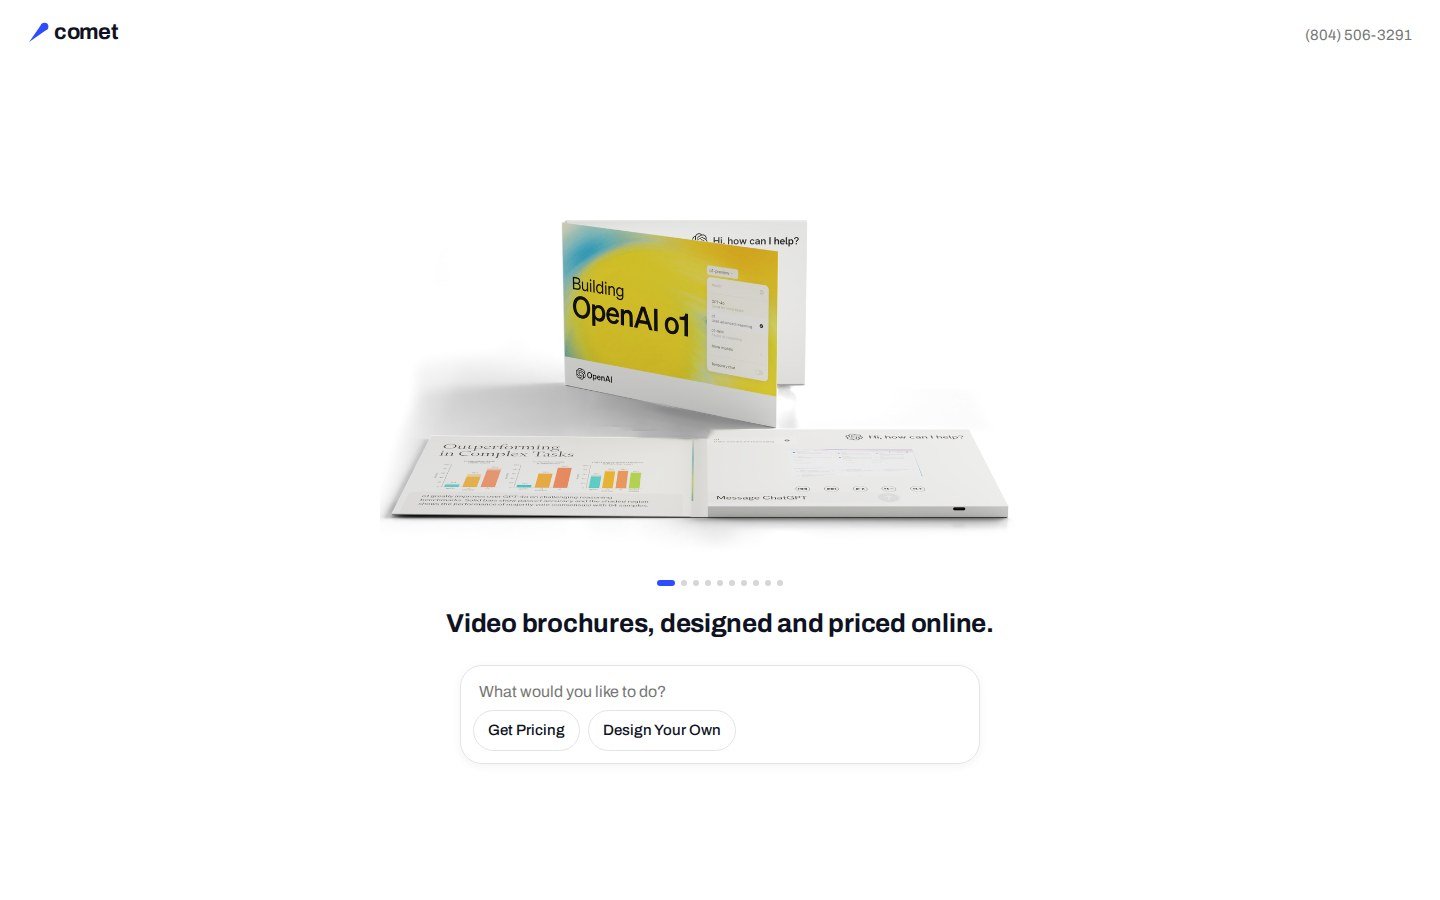
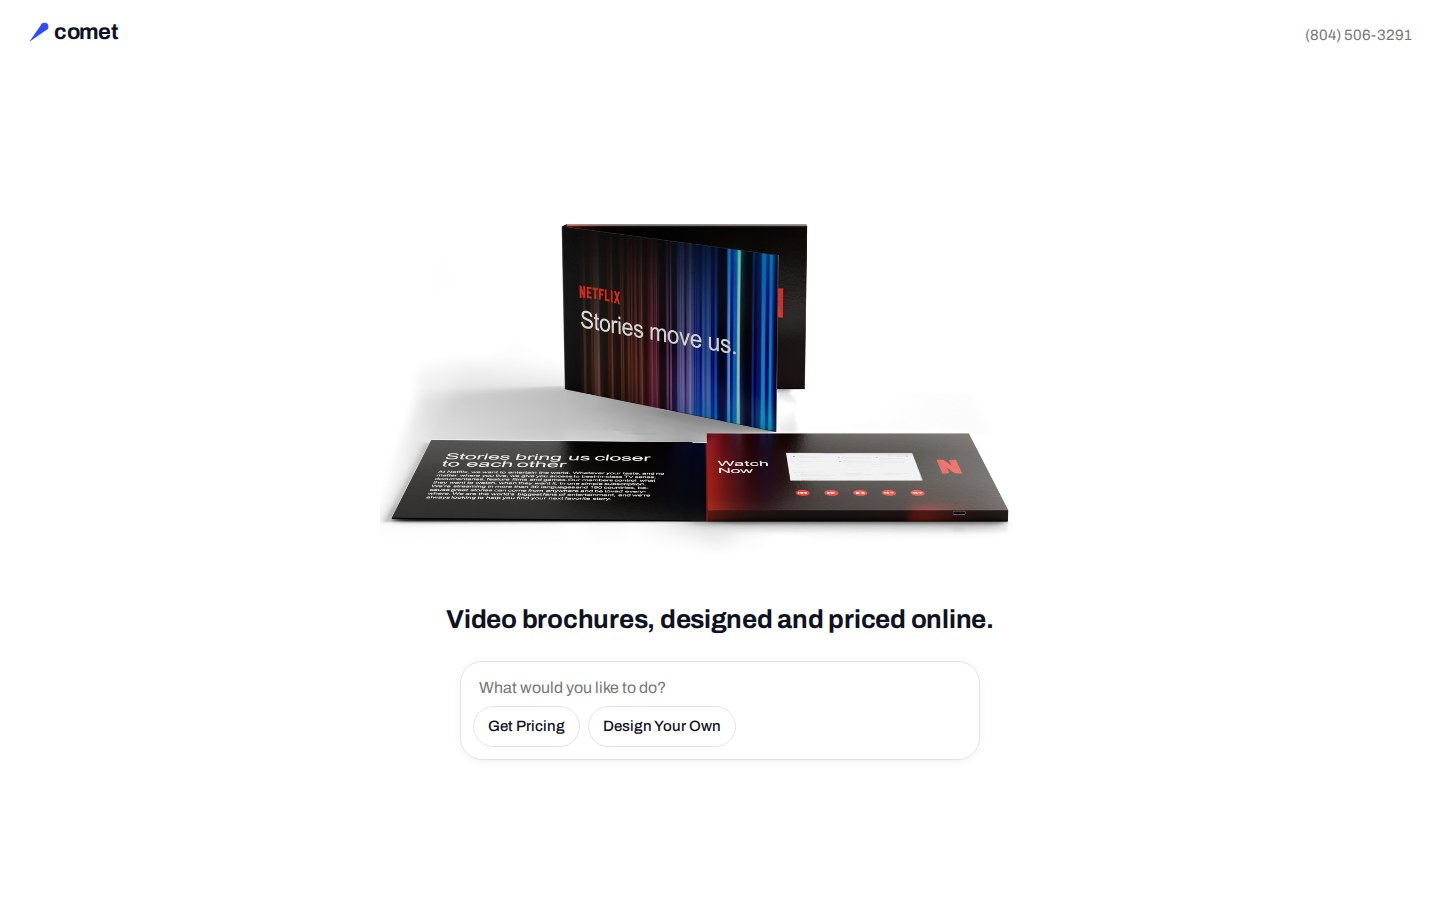
Homepage reel: no dots, Netflix first, OpenAI designs removed; chat design images fixed

Changed region(s): [[0.25, 0.2178, 0.7188, 0.5911], [0.3125, 0.7467, 0.5, 0.84], [0.3125, 0.6533, 0.6875, 0.7156]]

diff --git a/site/index.html b/site/index.html
@@ -19,7 +19,7 @@ main{flex:1;width:100%;max-width:760px;margin:0 auto;padding:0 20px;display:flex
 .reel img{position:absolute;inset:0;width:100%;height:100%;object-fit:contain;opacity:0;transform:translateX(24px);transition:opacity .7s ease,transform .7s ease}
 .reel img.on{opacity:1;transform:none}
 .reel img.out{opacity:0;transform:translateX(-24px)}
-.dots{display:flex;gap:6px;margin:6px 0 18px}
+.dots{display:flex;gap:6px;margin:6px 0 18px}.dots[hidden]{display:none}.reel{margin-bottom:22px}
 .dots button{width:6px;height:6px;border-radius:50%;background:#D6D6D6;padding:0}
 .dots button.on{background:var(--accent);width:18px;border-radius:3px}
 .ctas{display:flex;flex-direction:column;gap:10px;width:100%;max-width:320px;margin-top:22px}
@@ -139,11 +139,11 @@ body:not(.has-chat) .composer{display:none}
 <main>
  <div class="intro">
   <div class="reel" id="reel">
-   <img class="on" src="img/p14.webp" alt="Video brochure design">
-   <img src="img/p12.webp" alt=""><img src="img/p10.webp" alt=""><img src="img/p8.webp" alt=""><img src="img/p7.webp" alt="">
-   <img src="img/p3.webp" alt=""><img src="img/p15.webp" alt=""><img src="img/p13.webp" alt=""><img src="img/p4.webp" alt=""><img src="img/p6.webp" alt="">
+   <img class="on" src="img/p12.webp" alt="Netflix video brochure">
+   <img src="img/p10.webp" alt=""><img src="img/p8.webp" alt=""><img src="img/p3.webp" alt=""><img src="img/p7.webp" alt="">
+   <img src="img/p15.webp" alt=""><img src="img/p13.webp" alt=""><img src="img/p4.webp" alt="">
   </div>
-  <div class="dots" id="dots"></div>
+  <div class="dots" id="dots" hidden></div>
   <div class="copy">
   <p>Video brochures, designed and priced online.</p>
   <div class="ctas">
@@ -178,7 +178,7 @@ const chat=()=>document.body.classList.add('has-chat');
 const DES=['p8','p10','p13'];
 function designs(name){
  return add('bot',`<p>Here are three designs for ${name}. Pick one, or tell me what to change.</p>
-  <div class="designs">${DES.map((s,i)=>`<button class="${i===st.design?'on':''}" data-d="${i}"><img src="img/${s}.png" alt="">Design ${i+1}</button>`).join('')}</div>
+  <div class="designs">${DES.map((s,i)=>`<button class="${i===st.design?'on':''}" data-d="${i}"><img src="img/${s}.webp" alt="">Design ${i+1}</button>`).join('')}</div>
   <div class="follow"><button data-f="See design 1 in 3D">See it in 3D</button><button data-f="Make it darker">Make it darker</button><button data-f="Use a photo on the cover">Photo cover</button><button data-f="Change the headline">Change the headline</button></div>`);
 }
 function prices(lead){priceEl=add('bot',`<p>${lead}</p>${priceBlock()}`);priceEl.dataset.lead=lead}
@@ -190,7 +190,7 @@ function reply(text,kind){
   if(kind==='200'){designs('your trade show');st.qi=3;
    prices(`I priced 250 instead of 200, because 250 costs less in total.`);
    add('bot',`<div class="tip">200 brochures at ${m(SIZE[st.size][2])} each is ${m(SIZE[st.size][2]*200)}. 250 is the next price break, at ${m(SIZE[st.size][3])} each, so 250 costs ${m(SIZE[st.size][3]*250)} in total. That is less than 200.</div>`);return}
-  if(kind==='follow'){add('bot',`<p>Done. Here is design ${st.design+1} in 3D. Drag to turn it.</p><img class="big3d" src="img/${DES[st.design]}.png" alt="">`);return}
+  if(kind==='follow'){add('bot',`<p>Done. Here is design ${st.design+1} in 3D. Drag to turn it.</p><img class="big3d" src="img/${DES[st.design]}.webp" alt="">`);return}
   const site=(text.match(/[\w-]+\.(com|io|co|net|org|ai|us)\b/)||[])[0];
   if(kind==='price'||(/cost|price|how much/i.test(text)&&!site)){prices('Pick a size and quantity. The price per brochure drops at each step.');return}
   designs(site||'your brand');prices('How many do you need?');
